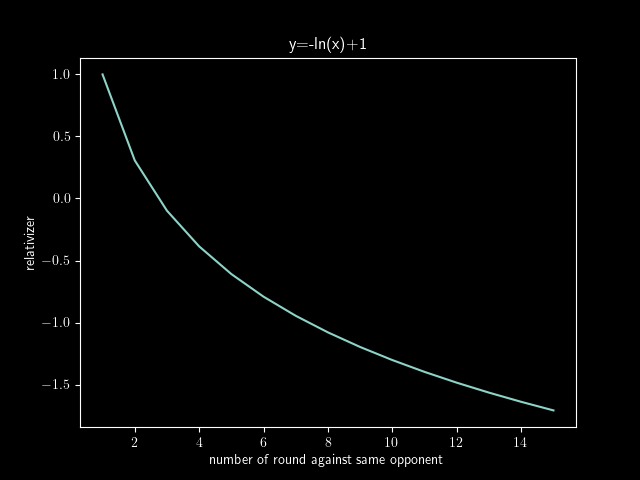
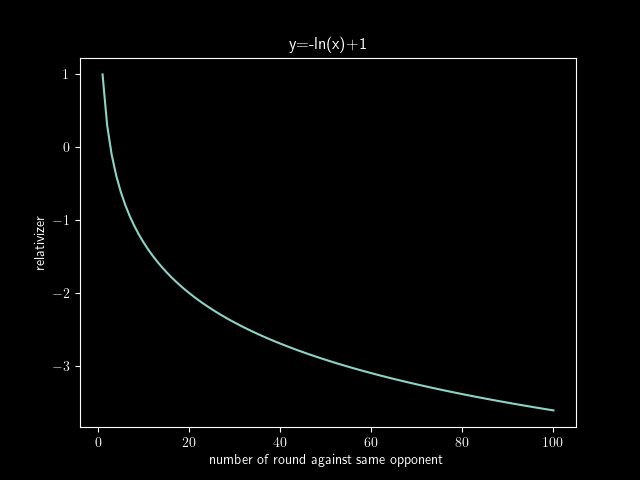
Finalize farming plots

diff --git a/plot.py b/plot.py
@@ -39,6 +39,7 @@ plt.title(f'$((x+1)/n)^3$')
 disp('images/quality.png')
 
 plt.figure()
+mx=100
 xx = range(1, mx+1)
 yy = [-math.log(x)+1 for x in xx]
 plt.plot(xx, yy)
@@ -47,4 +48,15 @@ plt.xlabel('number of round against same opponent')
 plt.title('y=-ln(x)+1')
 disp('images/farming_fundamental.png')
 
+plt.figure()
+mx=100
+a=mx
+xx = range(1, mx+1)
+yy = [-(99/(100*math.log(a)))*math.log(x)+1 for x in xx]
+plt.plot(xx, yy, label=f'a={a}')
+plt.legend()
+plt.ylabel('relativizer')
+plt.xlabel('number of round against same opponent')
+plt.title('y=-(99/(100ln(a)))ln(x)+1')
+disp('images/farming.png')
 

diff --git a/README.md b/README.md
@@ -161,7 +161,7 @@ with everything in between decreasing towars $0.01$ logarithmically.
 
 $$ -(99/(100ln(a)))ln(x)+1 $$
 
-TODO PLOT
+![Farming relativizer](images/farming.png)
 
 This formula is applied to each round so that $x$ is a set where each number
 represents the $n$-th won round.
